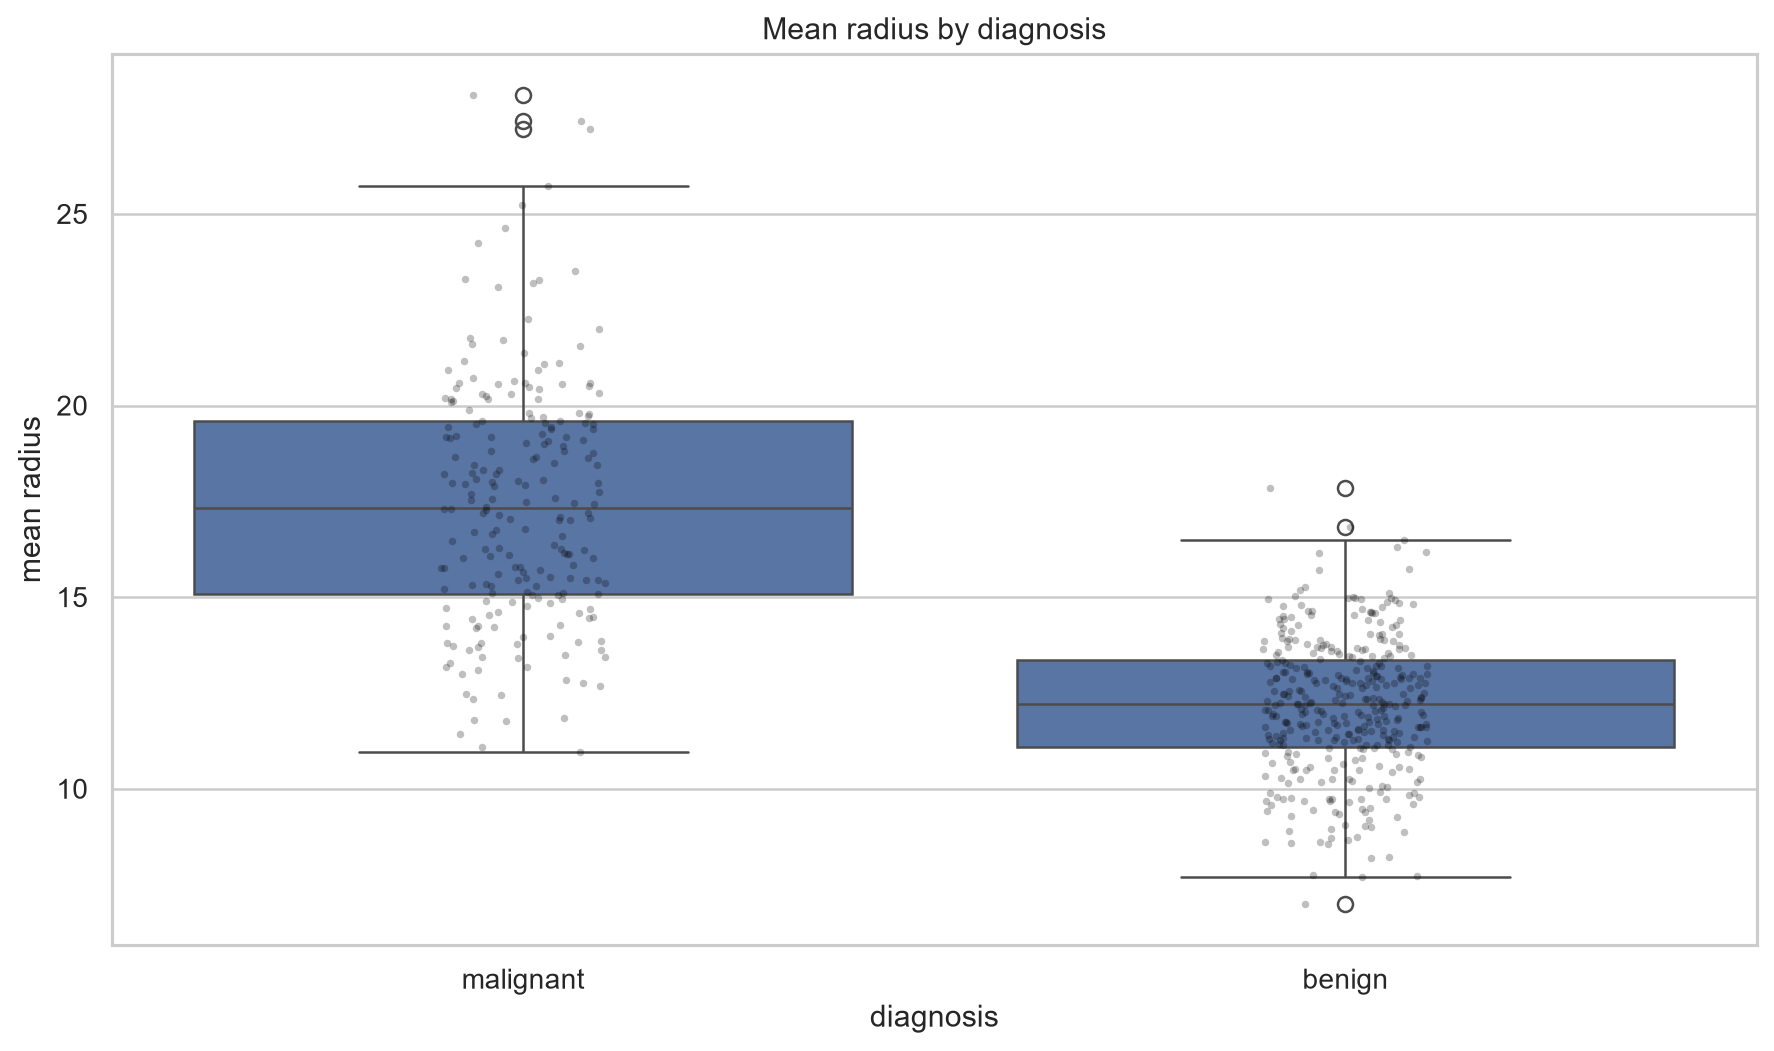
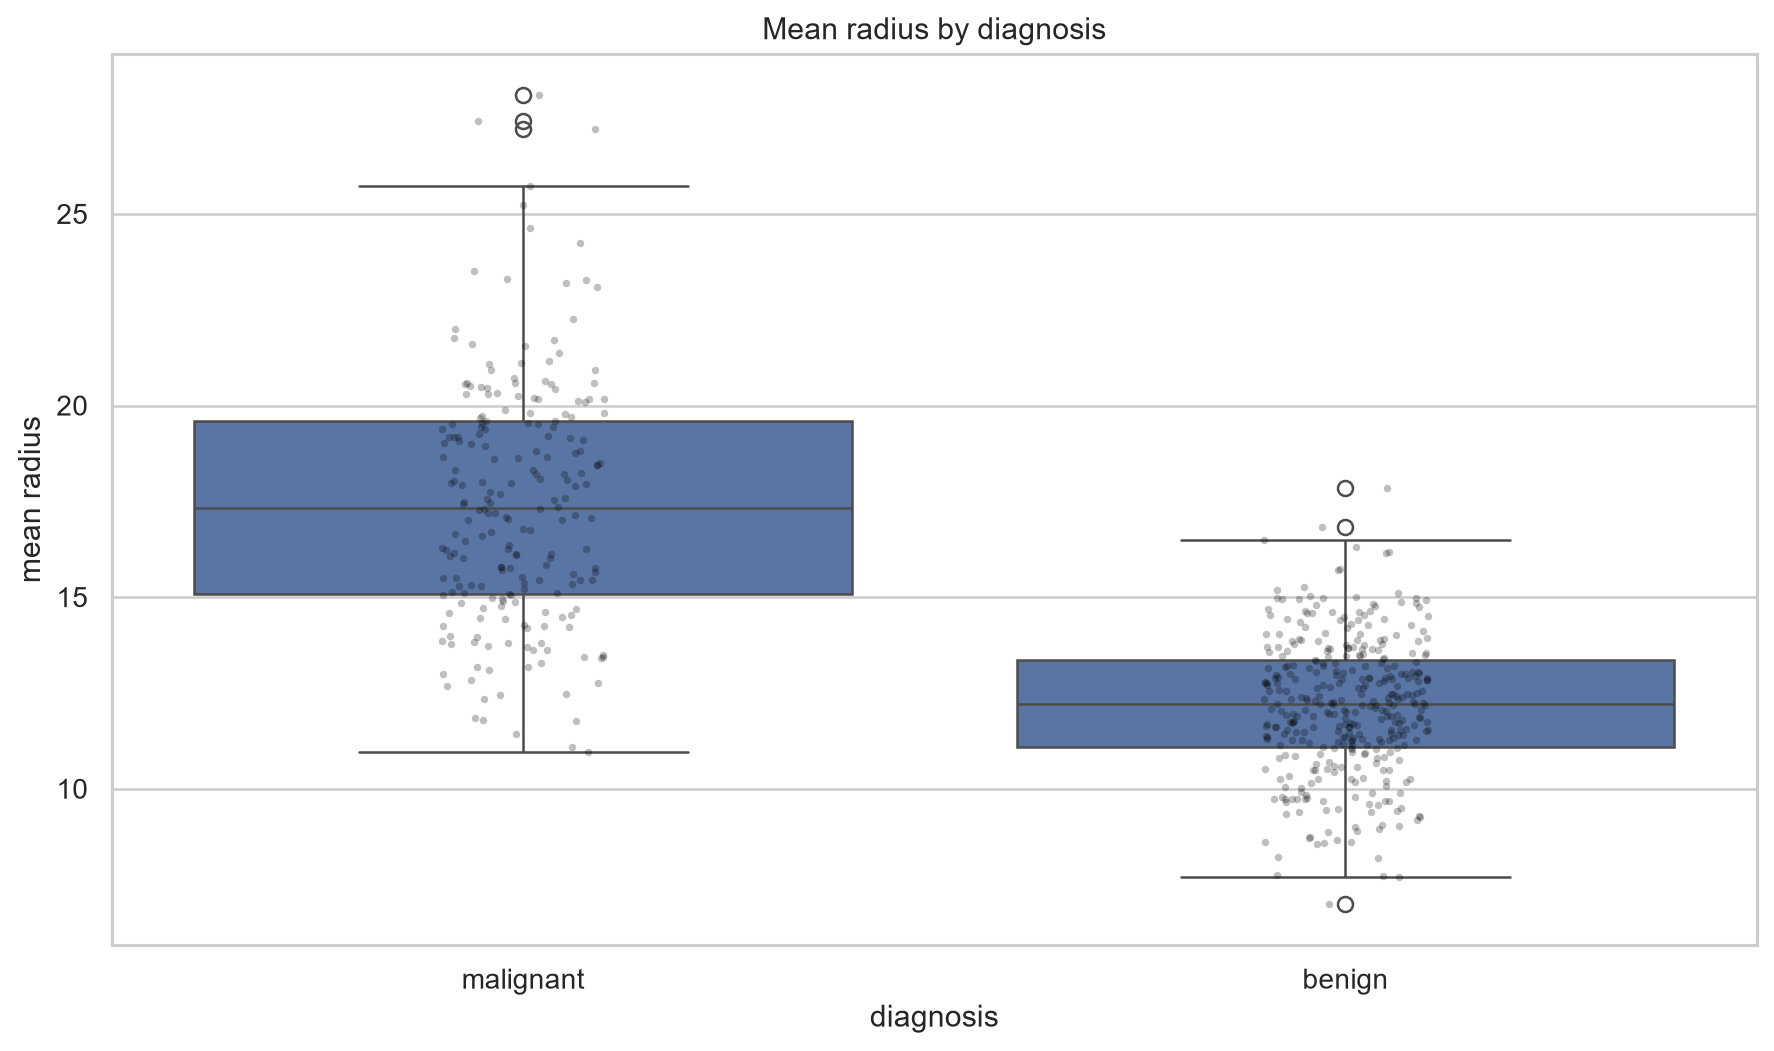
Publish visualization resources

Changed region(s): [[0.248, 0.3349, 0.341, 0.6698], [0.7131, 0.5176, 0.8061, 0.8221]]

diff --git a/README.md b/README.md
@@ -26,6 +26,17 @@ The notebook records the dataset shape, feature names, class distribution, missi
 - `requirements.txt` — Python dependencies
 - `figures/` — generated plots after running the notebook or script
 
+## Visualization resources
+
+The generated image resources are available directly on GitHub:
+
+1. [Diagnostic class distribution](figures/01_class_distribution.png)
+2. [Feature distributions by diagnosis](figures/02_feature_distributions.png)
+3. [Mean-radius boxplot](figures/03_boxplot_mean_radius.png)
+4. [Radius/perimeter scatter plot](figures/04_radius_perimeter_scatter.png)
+5. [Correlation heatmap](figures/05_correlation_heatmap.png)
+6. [PCA projection](figures/06_pca_projection.png)
+
 ## How to run
 
 ```bash
